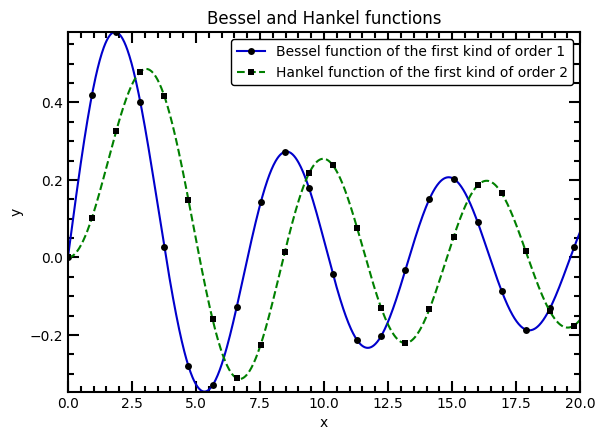
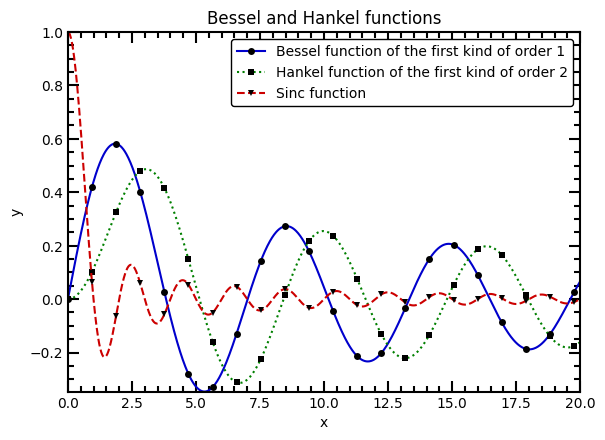
fixed the bug where no style properties where enforced if cycling is off

diff --git a/src/pyescher/linplot.py b/src/pyescher/linplot.py
@@ -205,6 +205,10 @@ class PropertyCycler:
             self._active_cycler_data = self.default_properties[:self.cycle_period]
         else:
             self._active_cycler_data = self.default_properties
+
+        if not self.cycle:
+            self._active_cycler_data = [self.default,]
+
         self.reset_cycle()
 
     def set_default(self, properties: list) -> None:
@@ -225,11 +229,8 @@ class PropertyCycler:
         self.active_cycler = cycle(content)
         
     def get(self):
-        if self.cycle == True:
-            return next(self.active_cycler)
-        else:
-            return self.default
-
+        return next(self.active_cycler)
+        
 class ColorCycler(PropertyCycler):
     property = '_col'
     def __init__(self):

diff --git a/demo.py b/demo.py
@@ -5,10 +5,13 @@ import numpy as np
 x = np.linspace(0, 20, 1000)
 y1 = jn(1, x)
 y2 = hankel1(2, x)
+y3 = np.sinc(x)
 
 l1 = pe.Line(x,y1,label='Bessel function of the first kind of order 1')
-l2 = pe.Line(x,y2,label='Hankel function of the first kind of order 2')
-pe.plot_lines(l1,l2, 
+l2 = pe.Line(x,y2,linestyle=':',label='Hankel function of the first kind of order 2')
+l3 = pe.Line(x,y3,label='Sinc function')
+
+pe.plot_lines(l1,l2,l3,
               xlabel='x', 
               ylabel='y', 
               title='Bessel and Hankel functions',

diff --git a/setup.py b/setup.py
@@ -2,7 +2,7 @@ from setuptools import setup, find_packages
 
 setup(
     name="pyescher",
-    version="0.2.0",
+    version="0.2.1",
     description="A Matplotlib wrapper that easily generates very scientific looking plots",
     author="Robert Fennis",
     author_email="fennisrobert@gmail.com",
